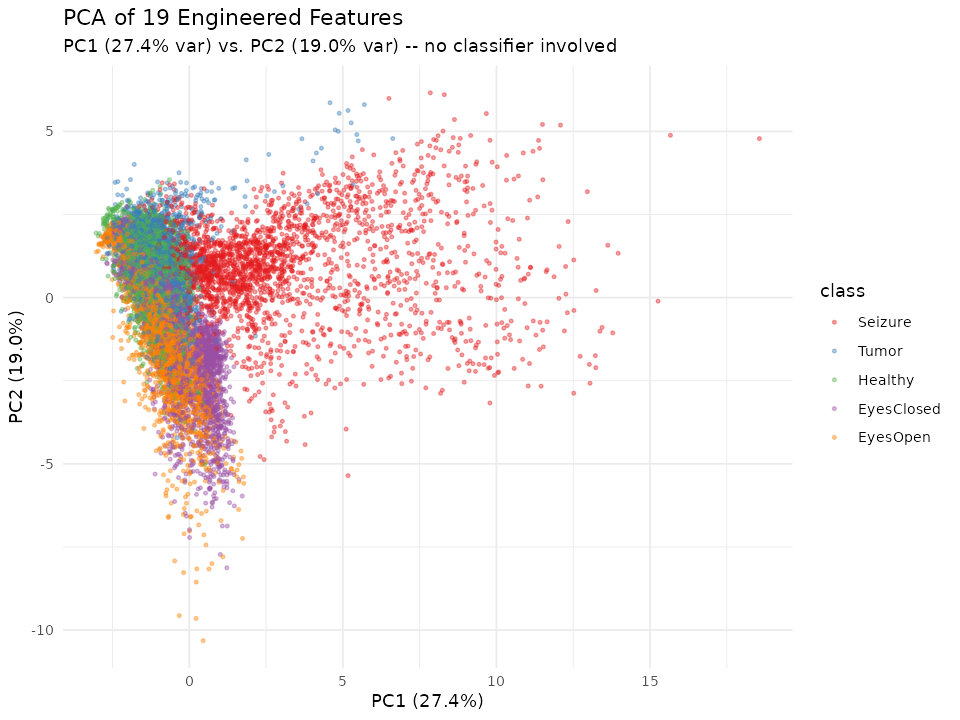
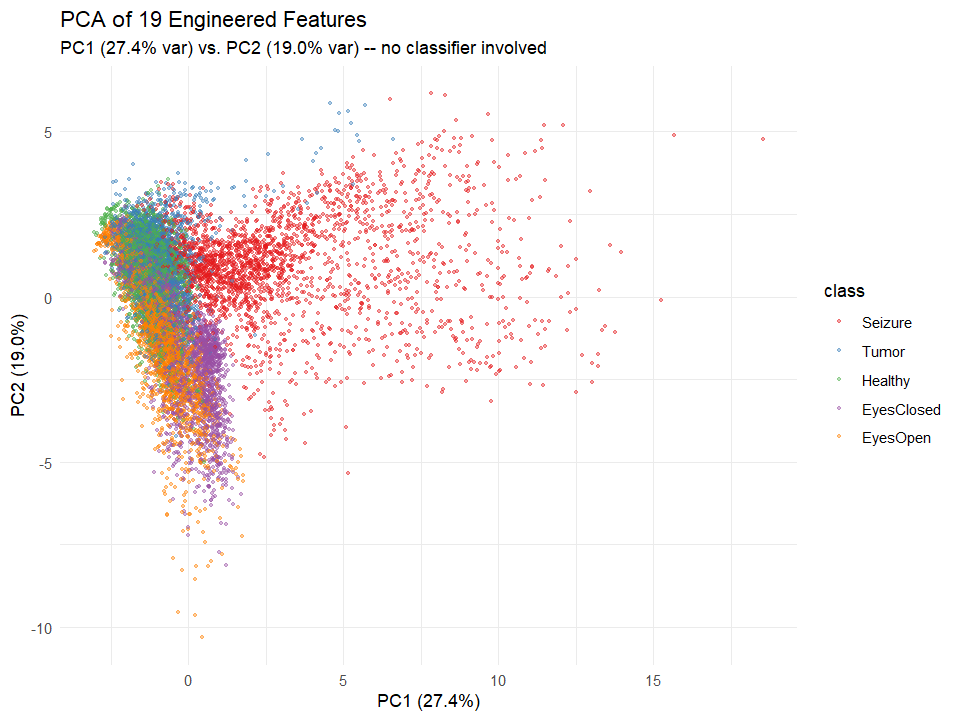
Stats: ANOVA on all 23 features, Tukey with Cohen's d, save Shapiro/PCA outputs

diff --git a/R/README.md b/R/README.md
@@ -29,7 +29,7 @@ pipeline — not a wrapper around it. Run in order from inside `R/`:
    unavailable `klaR` package). Same 80/20 stratified split logic as the
    Python roster, though **not row-identical** — R and Python use
    different RNG algorithms, so `set.seed(42)` doesn't reproduce the same
-   split as `random_state=42`. Saves `outputs/models/classical_ml_comparison_R.csv`.
+   split as `random_state=42`. Saves `results/models/classical_ml_comparison_R.csv`.
 
 3. **`03_database_connectivity.R`** — loads the R-generated feature set
    into SQLite via `DBI`/`RSQLite`, with real SQL retrieval queries.
@@ -38,22 +38,24 @@ pipeline — not a wrapper around it. Run in order from inside `R/`:
 4. **`04_hyperparameter_tuning.R`** — `caret`'s native cross-validated
    tuning (`trainControl(method="cv")` + `tuneGrid`) on the top 2
    baseline performers (Random Forest, Gradient Boosting) only.
-   Saves `outputs/models/tuned_model_comparison_R.csv`.
+   Saves `results/models/tuned_model_comparison_R.csv`.
 
 5. **`05_comparative_visualizations.R`** — confusion matrices (`ggplot2`),
    ROC curves for Seizure-vs-rest (`pROC`), and Random Forest feature
-   importance (Gini). Saves 3 PNGs to `outputs/plots/` (`plot10`–`plot12`).
+   importance (Gini). Saves 3 PNGs to `results/plots/` (`plot10`–`plot12`).
 
 6. **`06_statistical_analysis.R`** — genuine statistical data science, as
    distinct from everything above (which is all modeling): descriptive
    statistics by class, Shapiro-Wilk normality tests, one-way ANOVA with
-   eta-squared effect sizes across all 5 classes, Tukey HSD post-hoc
-   comparisons, and PCA for class separability — **no trained classifier
-   involved anywhere in this script**. Uses only base R's `stats` package
-   (`aov`, `TukeyHSD`, `shapiro.test`, `prcomp`) — no external packages
-   needed. Saves `outputs/models/descriptive_statistics_R.csv`,
-   `outputs/models/anova_effect_sizes_R.csv`, and
-   `outputs/plots/plot13_R_pca_separability.png`.
+   eta-squared effect sizes (plus a rank-based Kruskal-Wallis check) for
+   **all 23 features**, Tukey HSD post-hoc comparisons with Cohen's d, and
+   PCA for class separability — **no trained classifier involved anywhere in
+   this script**. Uses only base R's `stats` package (`aov`, `TukeyHSD`,
+   `kruskal.test`, `shapiro.test`, `prcomp`) plus `ggplot2` for the PCA plot.
+   Saves to `results/models/`: `descriptive_statistics_R.csv`,
+   `shapiro_wilk_R.csv`, `anova_effect_sizes_R.csv`, `tukey_hsd_R.csv`,
+   `pca_variance_R.csv`, `pca_loadings_R.csv`, and
+   `results/plots/plot13_R_pca_separability.png`.
 
 7. **`eda_script.R`** (unchanged from DA1) — the original 5 EDA plots.
 
@@ -89,34 +91,53 @@ normality test — real, data-grounded justification for preferring
 tree-based methods over normality-assuming ones like LDA, rather than
 just defaulting to them.
 
-**One-way ANOVA effect sizes (eta-squared), no model involved at all:**
+**One-way ANOVA effect sizes (eta-squared), all 23 features, no model involved.**
+Selected rows (full table in `anova_effect_sizes_R.csv`):
 
-| Feature | eta-squared | Effect size |
+| Rank | Feature | eta-squared | Kruskal-Wallis eta-squared |
+|---|---|---|---|
+| 1-4 | std, rms, peak_to_peak, mean_abs_diff | 0.56-0.65 | 0.53-0.67 |
+| 5 | **sample_entropy** | **0.502** | 0.539 |
+| 6 | variance | 0.454 | 0.528 |
+| 7 | permutation_entropy | 0.426 | 0.411 |
+| 15 | beta_power | 0.232 | 0.674 |
+| 20 | **spectral_entropy** | **0.105** | 0.145 |
+| 21-23 | kurtosis, skewness, mean | 0.007-0.022 | 0.005-0.011 |
+
+How to read this precisely:
+- The four top-ranked magnitude features are the redundant cluster pruned in
+  the modeling pipeline (r >= 0.90 with `variance`); they are included here so
+  the ranking covers every feature. Among the 19 features actually modeled,
+  sample entropy ranks first.
+- `variance` is the cluster's representative but scores lower than `std`
+  because it is strongly right-skewed, which flatters sample entropy in the
+  comparison with it. The rank-based column removes much of that artifact,
+  and under it two band-power features (`beta_power`, `alpha_power`) rank above
+  sample entropy.
+- Spectral entropy is a **medium** effect (rank 20 of 23), not the weakest
+  feature. The defensible claim is that time-domain entropies separate the five
+  classes roughly 4-5x better than spectral entropy, not that spectral entropy
+  carries no information.
+
+This is a *third* line of evidence (alongside Python SHAP and this
+pipeline's own Random Forest Gini importance), obtained with classical
+inferential statistics and no trained model.
+
+**Tukey HSD with Cohen's d** (`tukey_hsd_R.csv`), Seizure vs. each other class:
+
+| Comparison | spectral_entropy |d| | sample_entropy |d| |
 |---|---|---|
-| sample_entropy | 0.502 | Large — largest of all 5 |
-| variance | 0.454 | Large |
-| permutation_entropy | 0.426 | Large |
-| beta_power | 0.232 | Large |
-| spectral_entropy | 0.105 | Medium — smallest by far |
+| vs Tumor | 0.78 (medium) | 0.84 (large) |
+| vs Healthy | 0.81 (large) | 1.16 (large) |
+| vs EyesClosed | 0.19 (negligible) | 2.27 (large) |
+| vs EyesOpen | 0.12 (negligible) | 2.79 (large) |
 
-**Of these five features, sample entropy has the largest effect size —
-larger than variance, and about 5x spectral entropy.** (These five were
-hand-picked for the entropy comparison. Across all 23 engineered features,
-the four magnitude features later pruned for redundancy — `std`, `rms`,
-`peak_to_peak`, `mean_abs_diff` — score higher still, so this is a
-comparison within the analyzed set, not a ranking of every feature.) This is a *third* independent line of
-evidence (alongside Python SHAP and this pipeline's own Random Forest
-Gini importance) that sample entropy genuinely separates the classes and
-spectral entropy does not — this time via classical inferential
-statistics, with no trained model anywhere in the analysis.
-
-One nuance worth being precise about: Tukey HSD shows Seizure-vs-EyesOpen
-for `spectral_entropy` **is** statistically significant (p=0.0004) — not
-non-significant as might be assumed from the DA1 EDA alone — but the
-effect magnitude is 4-6x smaller than Seizure-vs-Tumor/Healthy. With
-n=2,300 per class there's enough statistical power to detect even small
-differences as "significant," so the right framing is "statistically
-significant but practically small," not "not significant."
+All eight comparisons are statistically significant (smallest adjusted p =
+0.0004, Seizure vs EyesOpen on spectral entropy). With n = 2,300 per class
+even tiny differences are significant, so the right reading is "significant
+but practically negligible" for spectral entropy against the resting-state
+classes, while sample entropy separates seizure from them by more than two
+standard deviations.
 
 PCA on all 19 features (no classifier involved) shows Seizure fanning out
 clearly along PC1, while the other four classes stay clustered near the

diff --git a/README.md b/README.md
@@ -59,19 +59,21 @@ R and Python use different random-number generators, so their splits are not
 row-identical; the numbers are comparable in kind, not row for row.
 
 **Statistics (R, no model involved):** only 1 of 25 feature × class combinations
-passes Shapiro-Wilk, which motivates tree-based models. One-way ANOVA effect
-sizes (η²) for the five analyzed features: sample entropy 0.50, variance 0.45,
-permutation entropy 0.43, beta power 0.23, **spectral entropy 0.11**. Time-domain
-entropy separates the five classes roughly 4-5x better than spectral entropy.
-The same conclusion appears independently in Python SHAP (sample entropy 3rd of
-19 features, spectral entropy last) and in R Random Forest importance.
+passes Shapiro-Wilk, which motivates tree-based models. One-way ANOVA effect sizes
+(η²) over all 23 features: sample entropy 0.50 (rank 5), variance 0.45,
+permutation entropy 0.43, **spectral entropy 0.11 (rank 20)**. Tukey HSD with
+Cohen's d shows seizure differs from eyes-open / eyes-closed by |d| = 2.8 / 2.3
+on sample entropy but only 0.12 / 0.19 on spectral entropy. The same picture
+appears independently in Python SHAP (sample entropy 3rd of 19 features,
+spectral entropy last) and in R Random Forest importance.
 
 ## Limitations
 - Deep-learning models ran on a single CPU core with capped epochs and small
   architectures; they should not be read as a general verdict on deep learning.
 - Tumor-region vs healthy-region and eyes-open vs eyes-closed remain the main
   confusions for every model.
-- The ANOVA covers five features chosen for the entropy comparison, not all 23.
+- The top-ranked ANOVA features are four magnitude features that were pruned as redundant
+  with `variance`; comparisons against `variance` are sensitive to its skewness (see `R/README.md`).
 
 ## Repository note
 The commit history groups the completed work into its logical stages; later work
